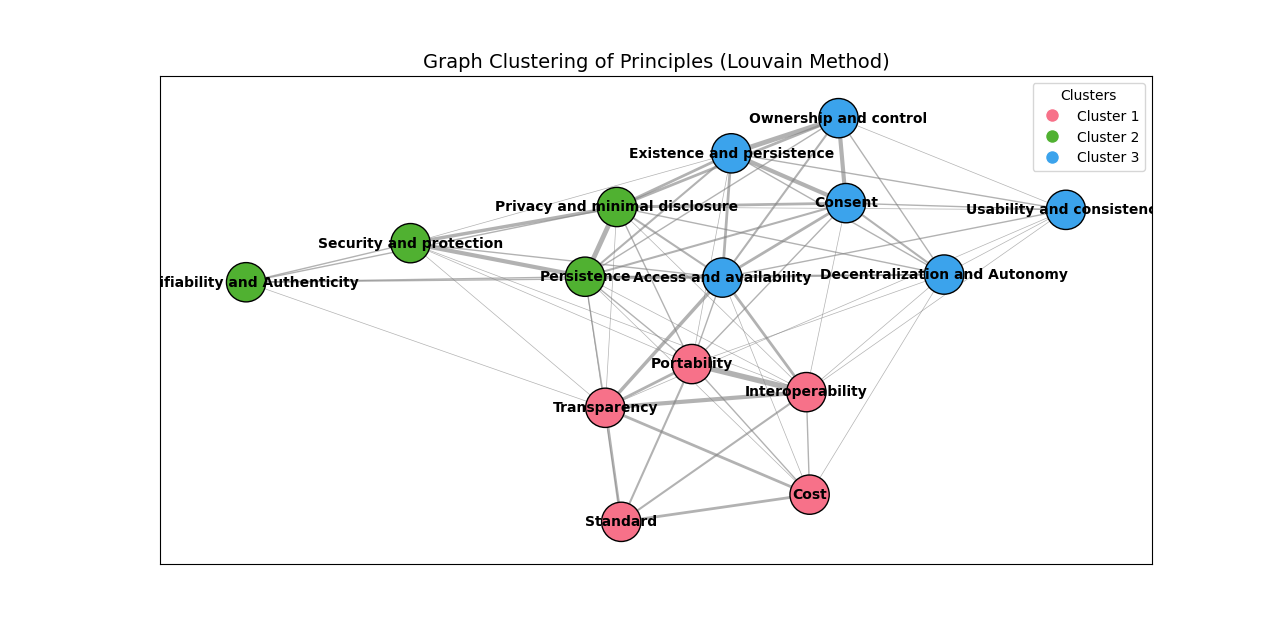
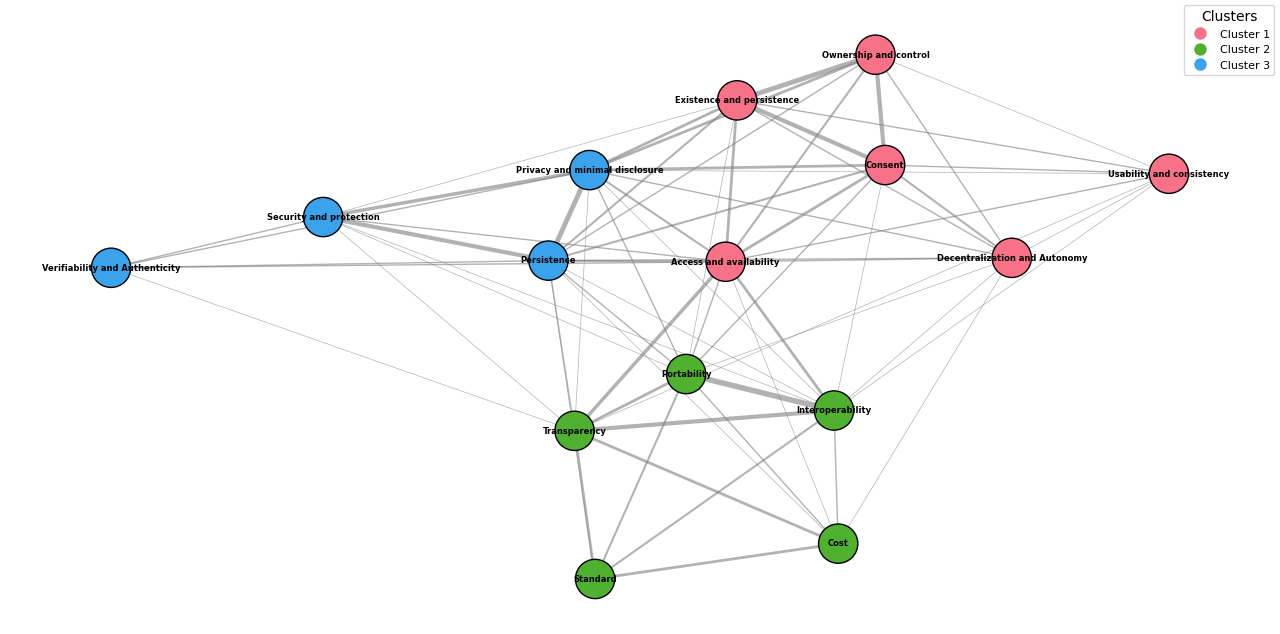
.

Changed region(s): [[0.0312, 0.0599, 0.9688, 0.959], [0.9062, 0.0, 1.0, 0.1199], [0.6562, 0.5394, 0.6875, 0.5694]]

diff --git a/definition/sdgdsg.py b/definition/sdgdsg.py
@@ -1,0 +1,47 @@
+import pandas as pd
+import matplotlib.pyplot as plt
+import seaborn as sns
+
+# Creazione dei dati
+data = {
+    "25th": [
+        "Existence and persistence", "Ownership and control", "Access and availability", 
+        "Decentralization and Autonomy", "Persistence", "Portability", "Interoperability", 
+        "Verifiability and authenticity", "Consent", "Security and protection", 
+        "Privacy and minimal disclosure", "Cost", "Standard", "Usability and consistency", 
+        "Transparency"
+    ],
+    "50th": [
+        "Existence and persistence", "Ownership and control", "Access and availability", 
+        "Decentralization and Autonomy", "Usability and consistency", "Transparency", "Portability", 
+        "Consent", "Security and protection", "Privacy and minimal disclosure", 
+        "Verifiability and authenticity", "Interoperability", "Persistence", "Cost", "Standard"
+    ],
+    "75th": [
+        "Existence and persistence", "Ownership and control", "Access and availability", 
+        "Transparency", "Portability", "Interoperability", "Consent", "Cost", "Standard", 
+        "Decentralization and Autonomy", "Verifiability and authenticity", "Usability and consistency", 
+        "Security and protection", "Privacy and minimal disclosure", "Persistence"
+    ]
+}
+
+# Creazione del DataFrame
+df = pd.DataFrame.from_dict(data, orient='index').transpose()
+
+# Creazione della figura
+plt.figure(figsize=(10, 6))
+ax = plt.gca()
+
+# Creazione della tabella grafica con colori
+colors = sns.color_palette("pastel", len(df))
+cell_colors = [[colors[i]] * len(df.columns) for i in range(len(df))]
+
+ax.axis('tight')
+ax.axis('off')
+table = ax.table(cellText=df.values, colLabels=df.columns, cellLoc='center', loc='center', 
+                 cellColours=cell_colors)
+
+# Mostra l'immagine
+table.auto_set_font_size(False)
+table.set_fontsize(10)
+plt.show()

diff --git a/definition/program/clustering/graph_clustering/Graph_theory.py b/definition/program/clustering/graph_clustering/Graph_theory.py
@@ -73,13 +73,15 @@ nx.draw_networkx_edges(G, pos, alpha=0.6, width=edge_widths, edge_color="gray")
 nx.draw_networkx_nodes(G, pos, node_color=node_colors, node_size=800, edgecolors="black")
 
 # Draw labels
-nx.draw_networkx_labels(G, pos, font_size=10, font_weight="bold")
+nx.draw_networkx_labels(G, pos, font_size=6, font_weight="bold")
 
 # Add legend for clusters
 legend_labels = {i: f"Cluster {i+1}" for i in range(num_clusters)}
 handles = [plt.Line2D([0], [0], marker="o", color="w", markerfacecolor=cluster_colors[i], markersize=10) for i in range(num_clusters)]
-plt.legend(handles, legend_labels.values(), title="Clusters", loc="best", fontsize=10)
+plt.legend(handles, legend_labels.values(), title="Clusters", loc="best", fontsize=8)
 
-# Title
-plt.title("Graph Clustering of Principles (Louvain Method)", fontsize=14)
+# Remove frame around the plot
+plt.gca().set_frame_on(False)
+
+# Show the plot
 plt.show()

diff --git a/definition/program/clustering/graphs/greedy/Euclidean_distance.py b/definition/program/clustering/graphs/greedy/Euclidean_distance.py
@@ -28,7 +28,7 @@ categories = [
     "Transparency", "Persistence", "Portability", "Interoperability",
     "Consent", "Security and protection", "Privacy and minimal disclosure",
     "Cost", "Standard", "Decentralization and Autonomy",
-    "Verifiability and Authenticity", "Usability and consistency"
+    "DD", "Usability and consistency"
 ]
 
 # Convert to DataFrame

diff --git a/definition/Definition.md b/definition/Definition.md
@@ -188,7 +188,7 @@ Processing on the heatmap of figure 9 is not straigthforward. Thus, we created t
 
 Clustering based on the $25^{\text{th}}, 50^{\text{th}}, 75^{\text{th}}$ percentiles follows a structured process that begins with extracting the distance matrix from the heatmap. This matrix represents pairwise distances between principles, where lower values indicate greater similarity. The first step involves computing the $25^{\text{th}} / 50^{\text{th}} / 75^{\text{th}}$ percentiles of all non-diagonal values, which serve as thresholds for hierarchical clustering. 
 
-The clustering process starts with the first row of the matrix, identifying principles with distances less than or equal to the $25^{\text{th}}$ percentile and grouping them into an initial cluster. This process continues for each principle, forming multiple small clusters. Next, the clustering expands using the $50^{\text{th}}$ percentile, merging or enlarging existing clusters based on the updated threshold. Finally, the $75^{\text{th}}$ percentile is applied to further broaden the clusters, allowing for looser groupings where principles share more distant but still relevant connections.
+The clustering process starts with the first row of the matrix, identifying principles with distances less than or equal to the $25^{\text{th}}$ percentile and grouping them into an initial cluster. This process continues moving to the next free line, and forming a new cluster. Next, the clustering expands using the $50^{\text{th}}$ percentile, merging or enlarging existing clusters based on the updated threshold. Finally, the $75^{\text{th}}$ percentile is applied to further broaden the clusters, allowing for looser groupings where principles share more distant but still relevant connections.
 
 ![Heatmap](/definition/images/clusters/greedy/Euclidean_matrix.png)
 *Figure 10: Euclidean distance between rows.*
@@ -196,7 +196,7 @@ The clustering process starts with the first row of the matrix, identifying prin
 ###### Discussion and limitations
 The resulting clusters reflect different levels of relatedness: the $25^{\text{th}}$ percentile defines tightly bound principles, the $50^{\text{th}}$ percentile captures moderate relationships, and the $75^{\text{th}}$ percentile forms broader groupings. This method provides a structured way to classify principles based on their similarities while maintaining flexibility across different levels of granularity.
 
-Although the greedy approach is efficient and does not require to predefine the number of clusters, it has a rigid structure that relies on the next local best step to find a locally optimal solution, while it may not account for the overall problem structure.[^rai] Since we do not know the data distribution, a locally optimal solution may differ from the globally optimal one.[^park] Furthermore, the greedy approach lacks backtracking or global adjustments - it considers only the present step without planning ahead, which can lead to suboptimal results. Therefore, we aim to explore alternative, not greedy, techniques that have a less rigid structure and may lead to different clusterings.
+Although the greedy approach is efficient and does not require to predefine the number of clusters, it has a rigid structure that relies on the next local best step to find a locally optimal solution, while it may not account for the overall problem structure.[^rai] The heuristic to select the next new row may have a great impact on the final result, and since we do not know the data distribution, a locally optimal solution may differ from the globally optimal one.[^park] Furthermore, the greedy approach lacks backtracking or global adjustments - it considers only the present step without planning ahead, which can lead to suboptimal results. Therefore, we aim to explore alternative techniques that may lead to a different clustering.
 
 ##### B) K-Means
 K-Means is an iterative method that can find a local minimum but has a less rigid structure compared to a purely local greedy. It generates partitions form initial centroids and minimize the intra-cluster distances; namely, the distance between objects of the same cluster.[^rai] It is popular for its simplicity and works conveniently with numerical attributes.[^rai] The letter k in K-Means represents the number of centroids, and is a parameter defined at priori. The K-Means iterates as follows:[^saxena]
@@ -268,7 +268,7 @@ Before step 4, the movement of lines reflects the gradual grouping of principles
 ![Principles change group](/definition/images/clusters/k-means/Flowchart_principles.png)
 *Figure 13: Dynamic flow of principles among clusters.*
 
-###### Clusters
+###### Dicussion and limitations
 
 We set the parameter k=5 to the [program](#appendix-a-k-means-clustering-program-explanation) to render fie groups. However, to assign a name to each category, we have mapped research articles across principles and categories. We do not discuss further this chart because it conveys the same information of Figure 9. Bubbles indicate the number of articles, with larger bubbles representing more studies.
 
@@ -277,12 +277,11 @@ Rectangles are in proximity of larger bubbles, which represent more citations fr
 ![Bubble K-Means](/definition/images/clusters/k-means/Bubble.png)
 *Figure 14: Map of principles and categories.*
 
-###### Final thoughts
 Besides the lack of an efficient and universal method to tune the value of k, our analysis led us to identify five groups of principles, which have been named based on past literature works. Despites the K-Means is influenced by the shape, size, and density of clusters,[^saxena][^rai] the number of clusters has been tuned through a comprehensive analysis of the dataset with the lens of the parameter k.
 
 To gain a better understanding of the data space, we use another clustering technique before concluding with a comparison of Greedy, K-Means, and Graph clustering.
 
-##### C) Graph clustering
+##### C) Louvain clustering
 Graph clustering represents points as vertices connected by edges. The edges are weighted based on the number of instances of articles from authors. For example, if three articles use the category 'Controllability,' the corresponding edge will have a weight of three. While this method is visually appealing and easy to understand, it does not scale well to hundreds of nodes.
 
 ![Graph](/definition/images/clusters/graph_theory/Heatmap.png)
